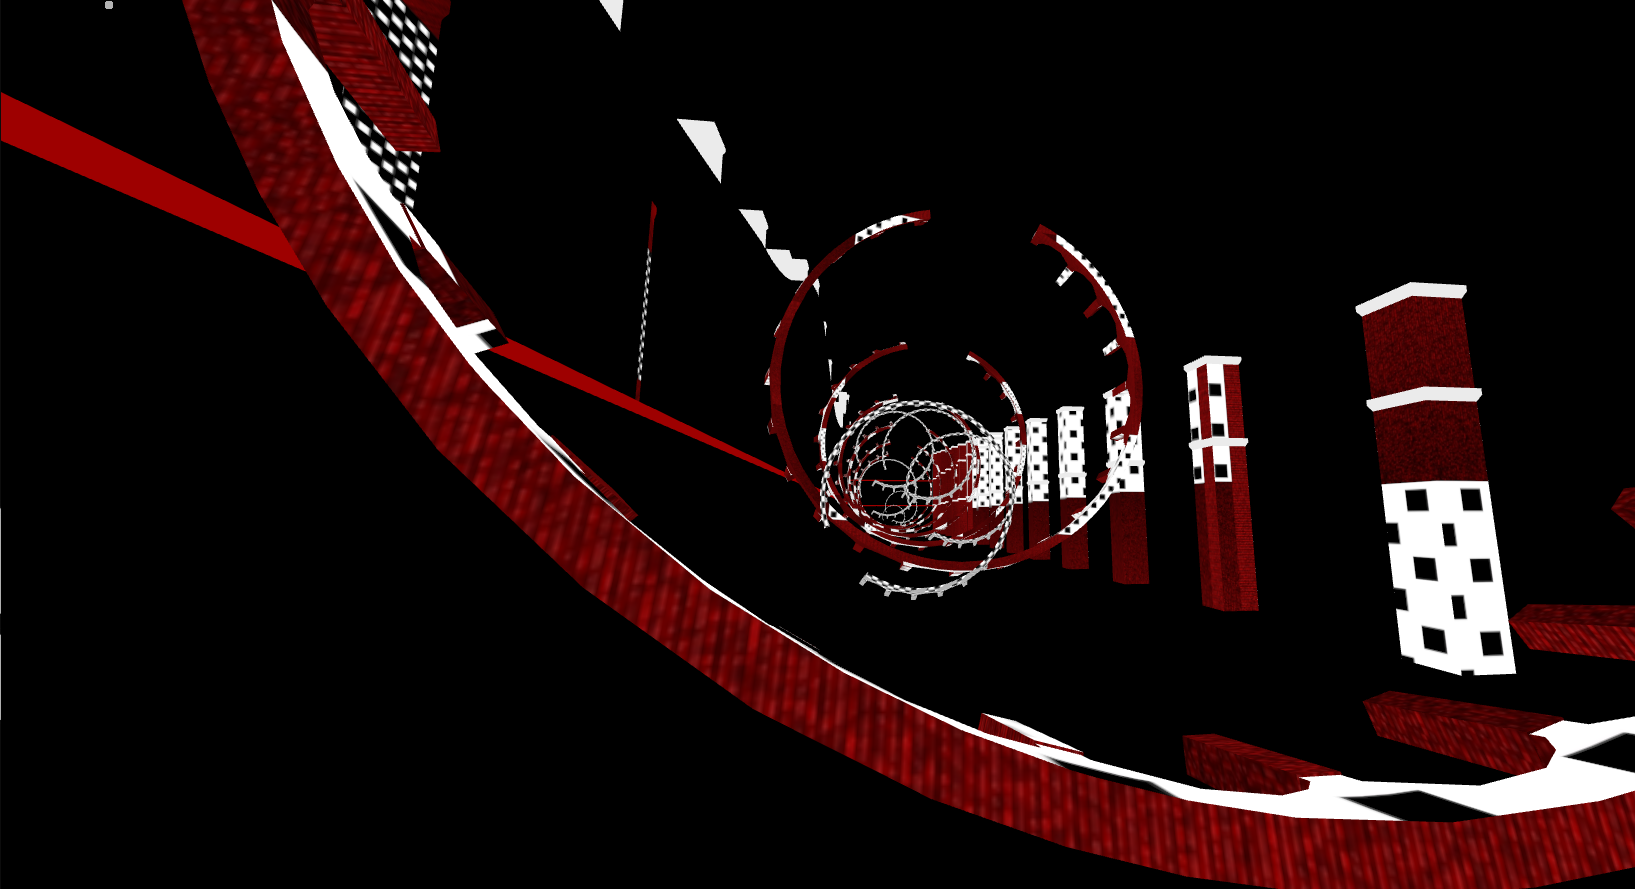
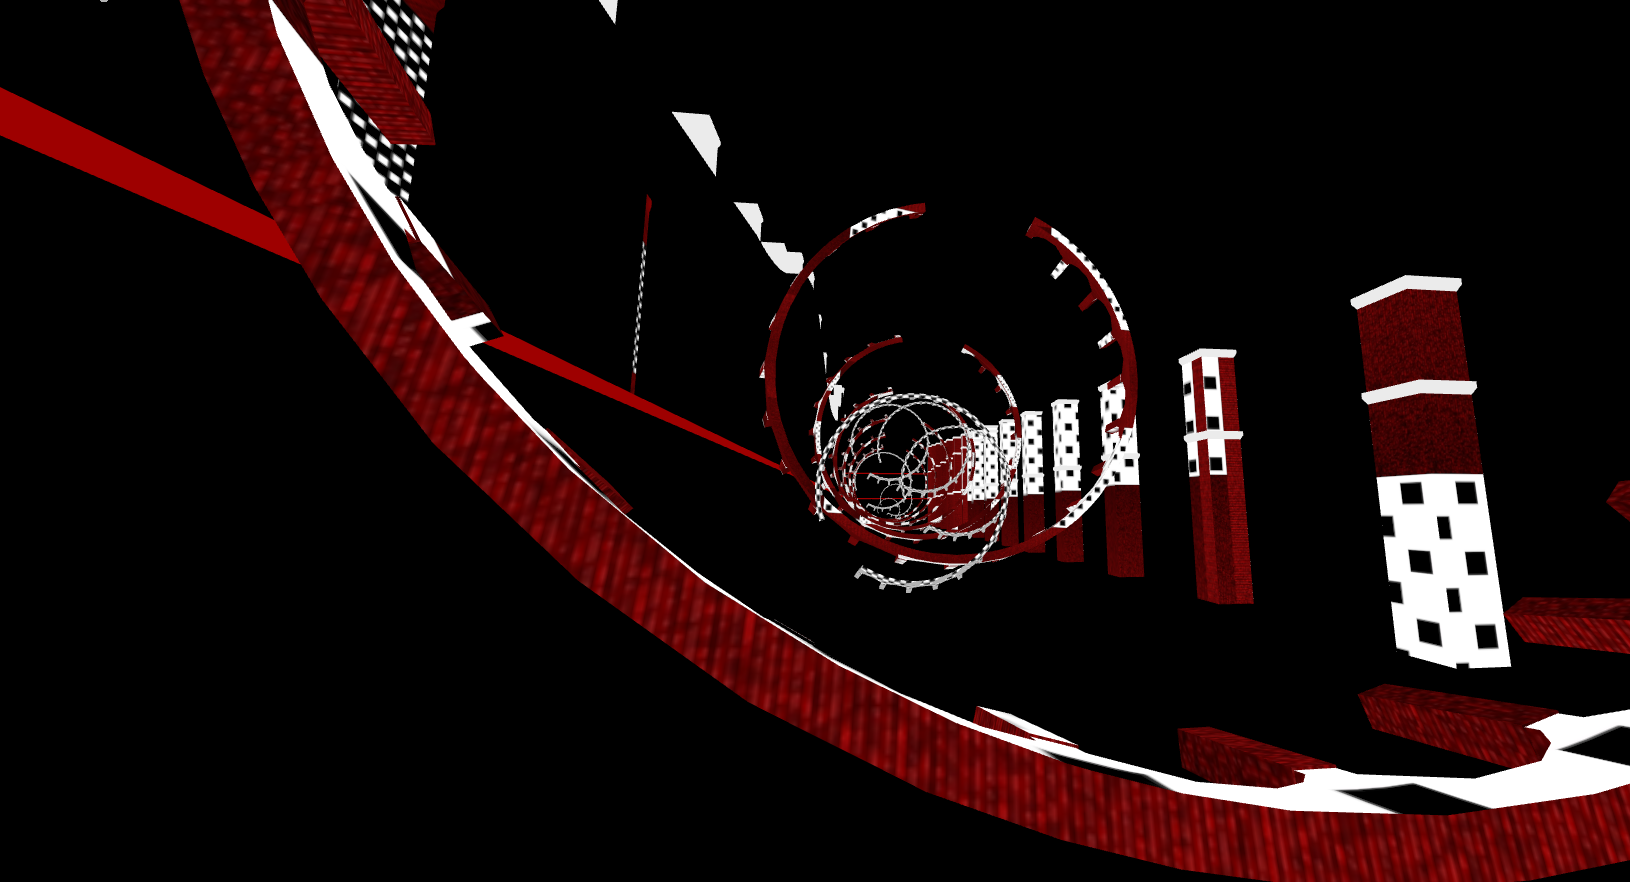
edit dreamscapes

diff --git a/_works/dreamscapes.md b/_works/dreamscapes.md
@@ -8,9 +8,9 @@ date: 2023-05-25
 
 <iframe width="560" height="315" src="https://www.youtube.com/embed/PWX_CnPkJYE" title="YouTube video player" frameborder="0" allow="accelerometer; autoplay; clipboard-write; encrypted-media; gyroscope; picture-in-picture; web-share" allowfullscreen></iframe>
 
-Paisajes Oníricos / Dreamscapes for open instrumentation and virtual conductor. Performed by Popebama, Erin Rogers (saxophone) and Dennis Sullivan (percussion, electronics).
+Paisajes Oníricos / Dreamscapes for open instrumentation and virtual conductor. Performed by Popebama, Erin Rogers (saxophone) and Dennis Sullivan (percussion, electronics), and myself as the virtual conductor.
 
-The piece reflects on the traditional representation of graphic scores as drawings on a two-dimensional plane. The piece expands on this notion by allocating the graphical elements in a 3D virtual environment. These elements acquire volume and mass, in addition to the incorporation of a spatio-temporal dimension that is controlled by a virtual conductor.
+The piece reflects on the traditional representation of graphic scores as drawings on a two-dimensional plane. The piece expands on this notion by allocating the graphical elements in a 3D virtual environment. These elements acquire volume and mass, in addition to the incorporation of a spatio-temporal dimension that is controlled by a virtual conductor using a mouse and keyboard.
 
 <iframe width="560" height="315" src="https://www.youtube.com/embed/OG3mhEU0n2w?si=R1T8aq_hh9HmfaSU" title="YouTube video player" frameborder="0" allow="accelerometer; autoplay; clipboard-write; encrypted-media; gyroscope; picture-in-picture; web-share" referrerpolicy="strict-origin-when-cross-origin" allowfullscreen></iframe>
 
